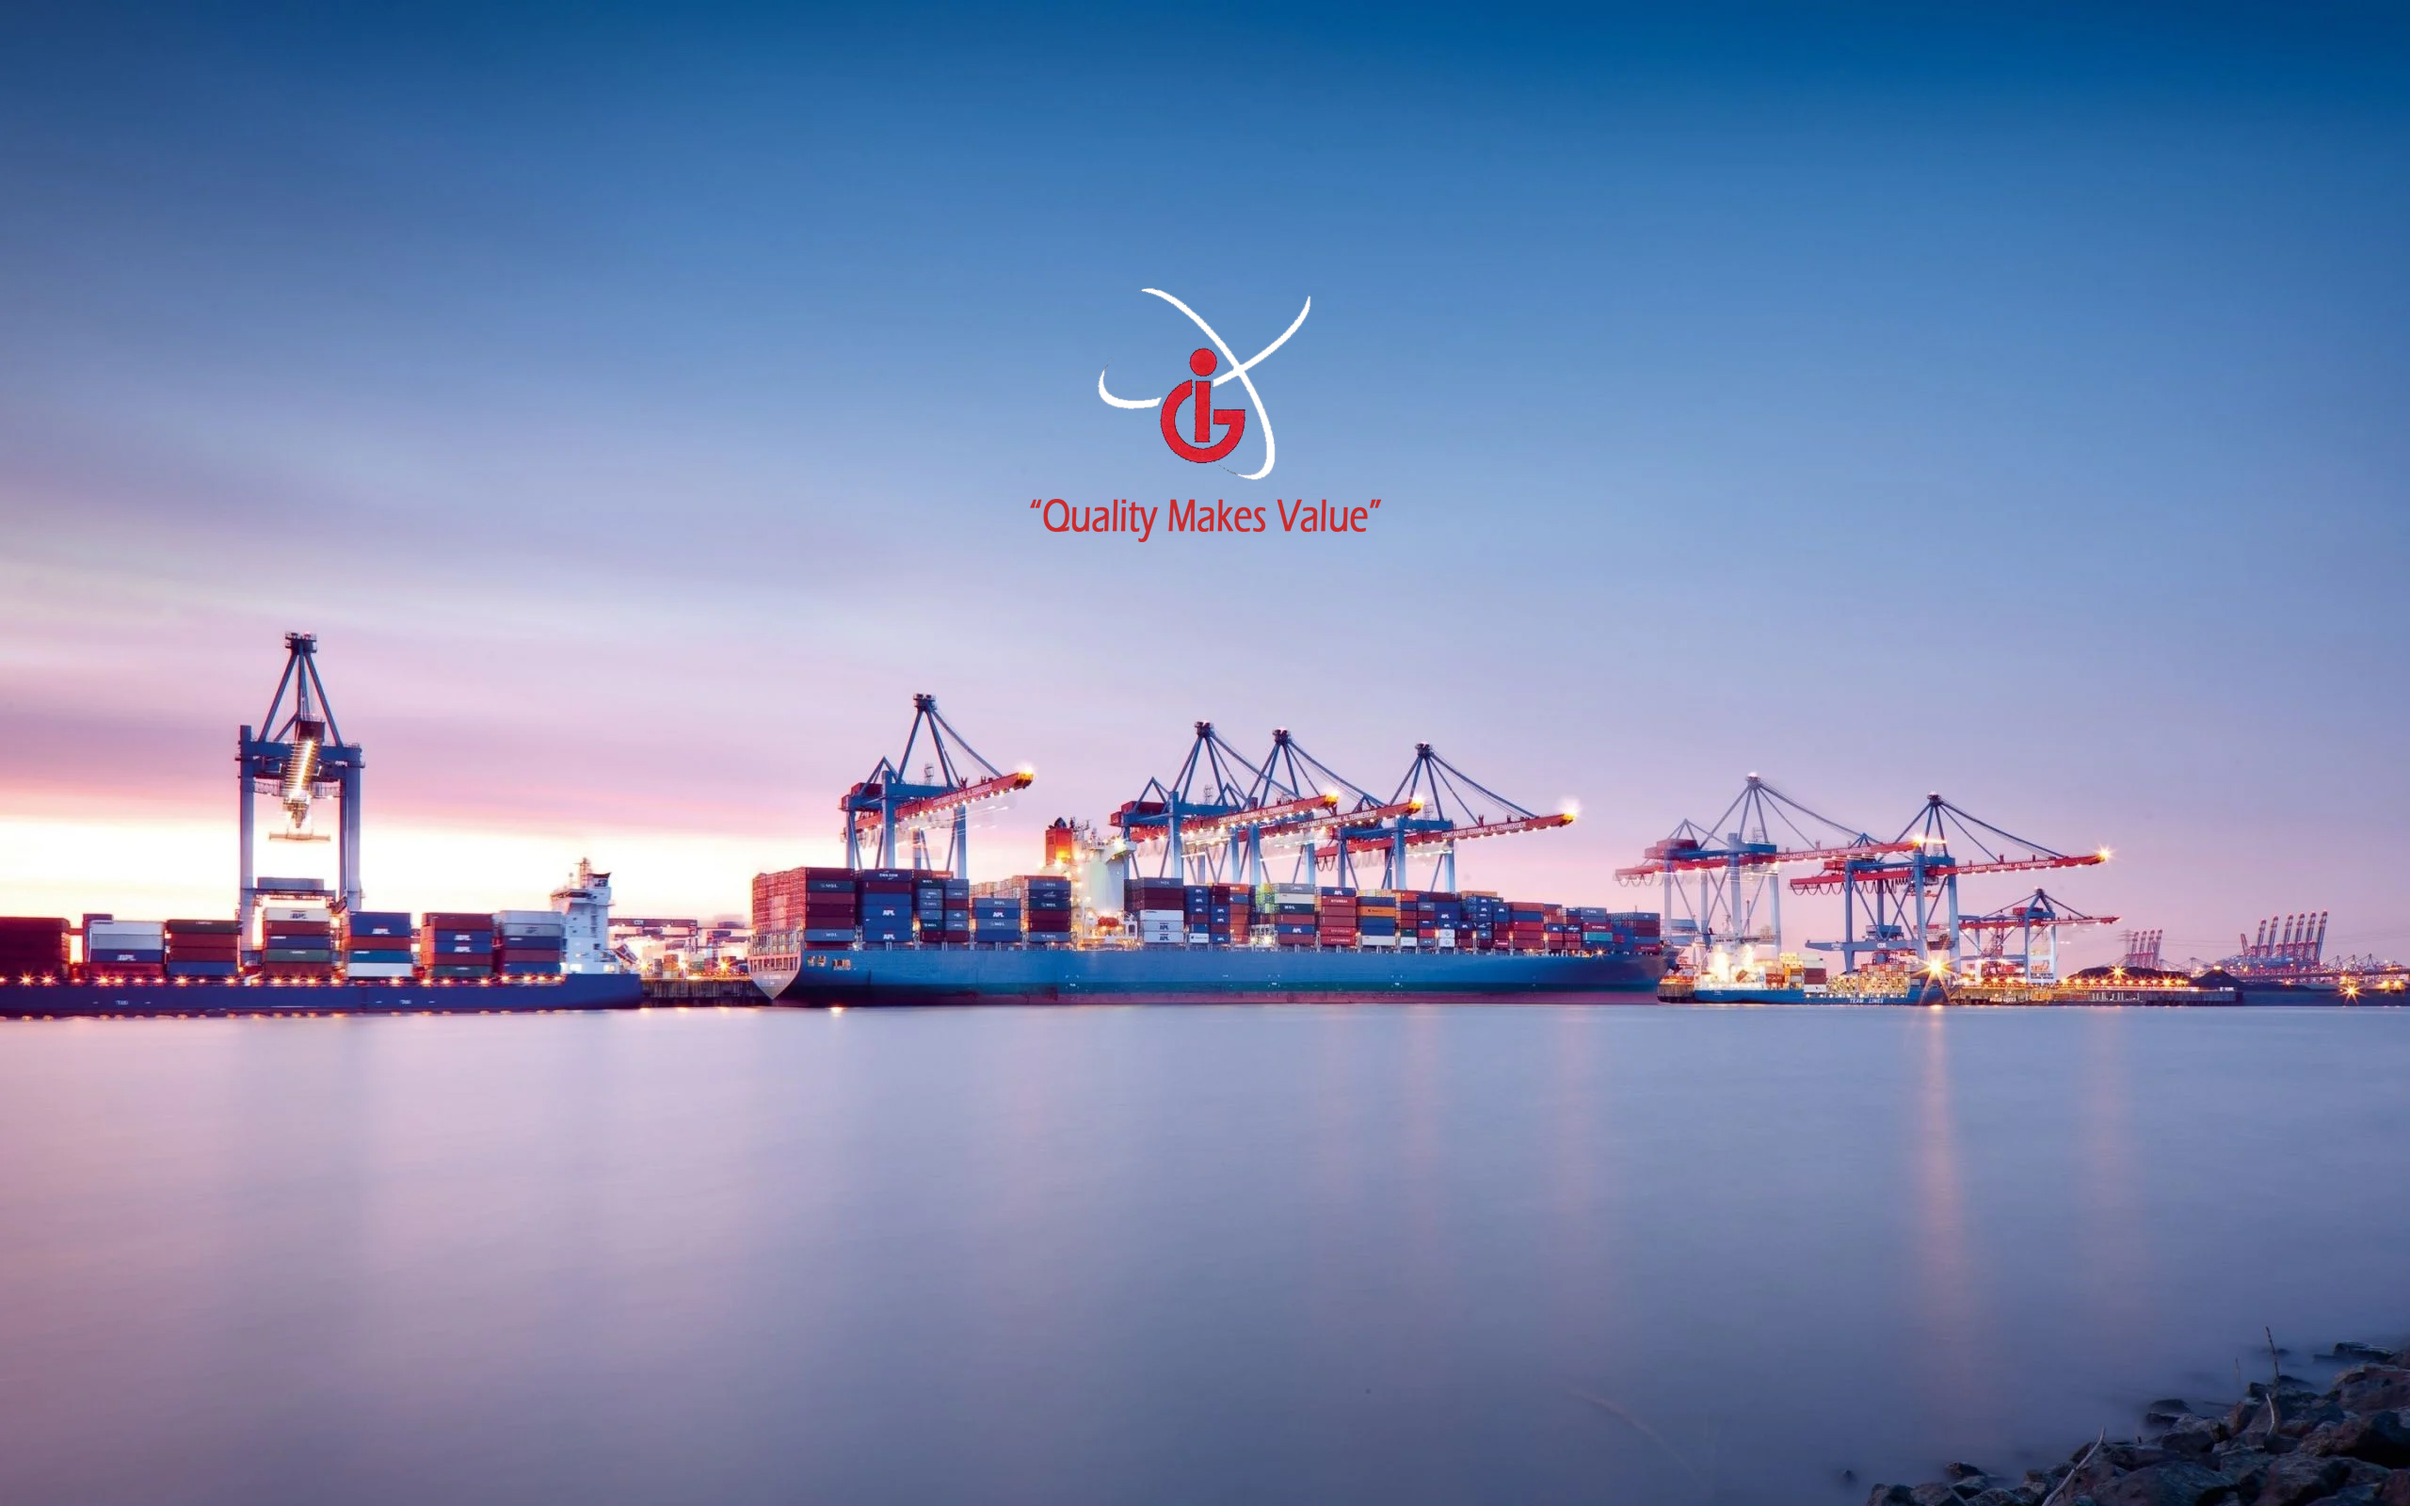
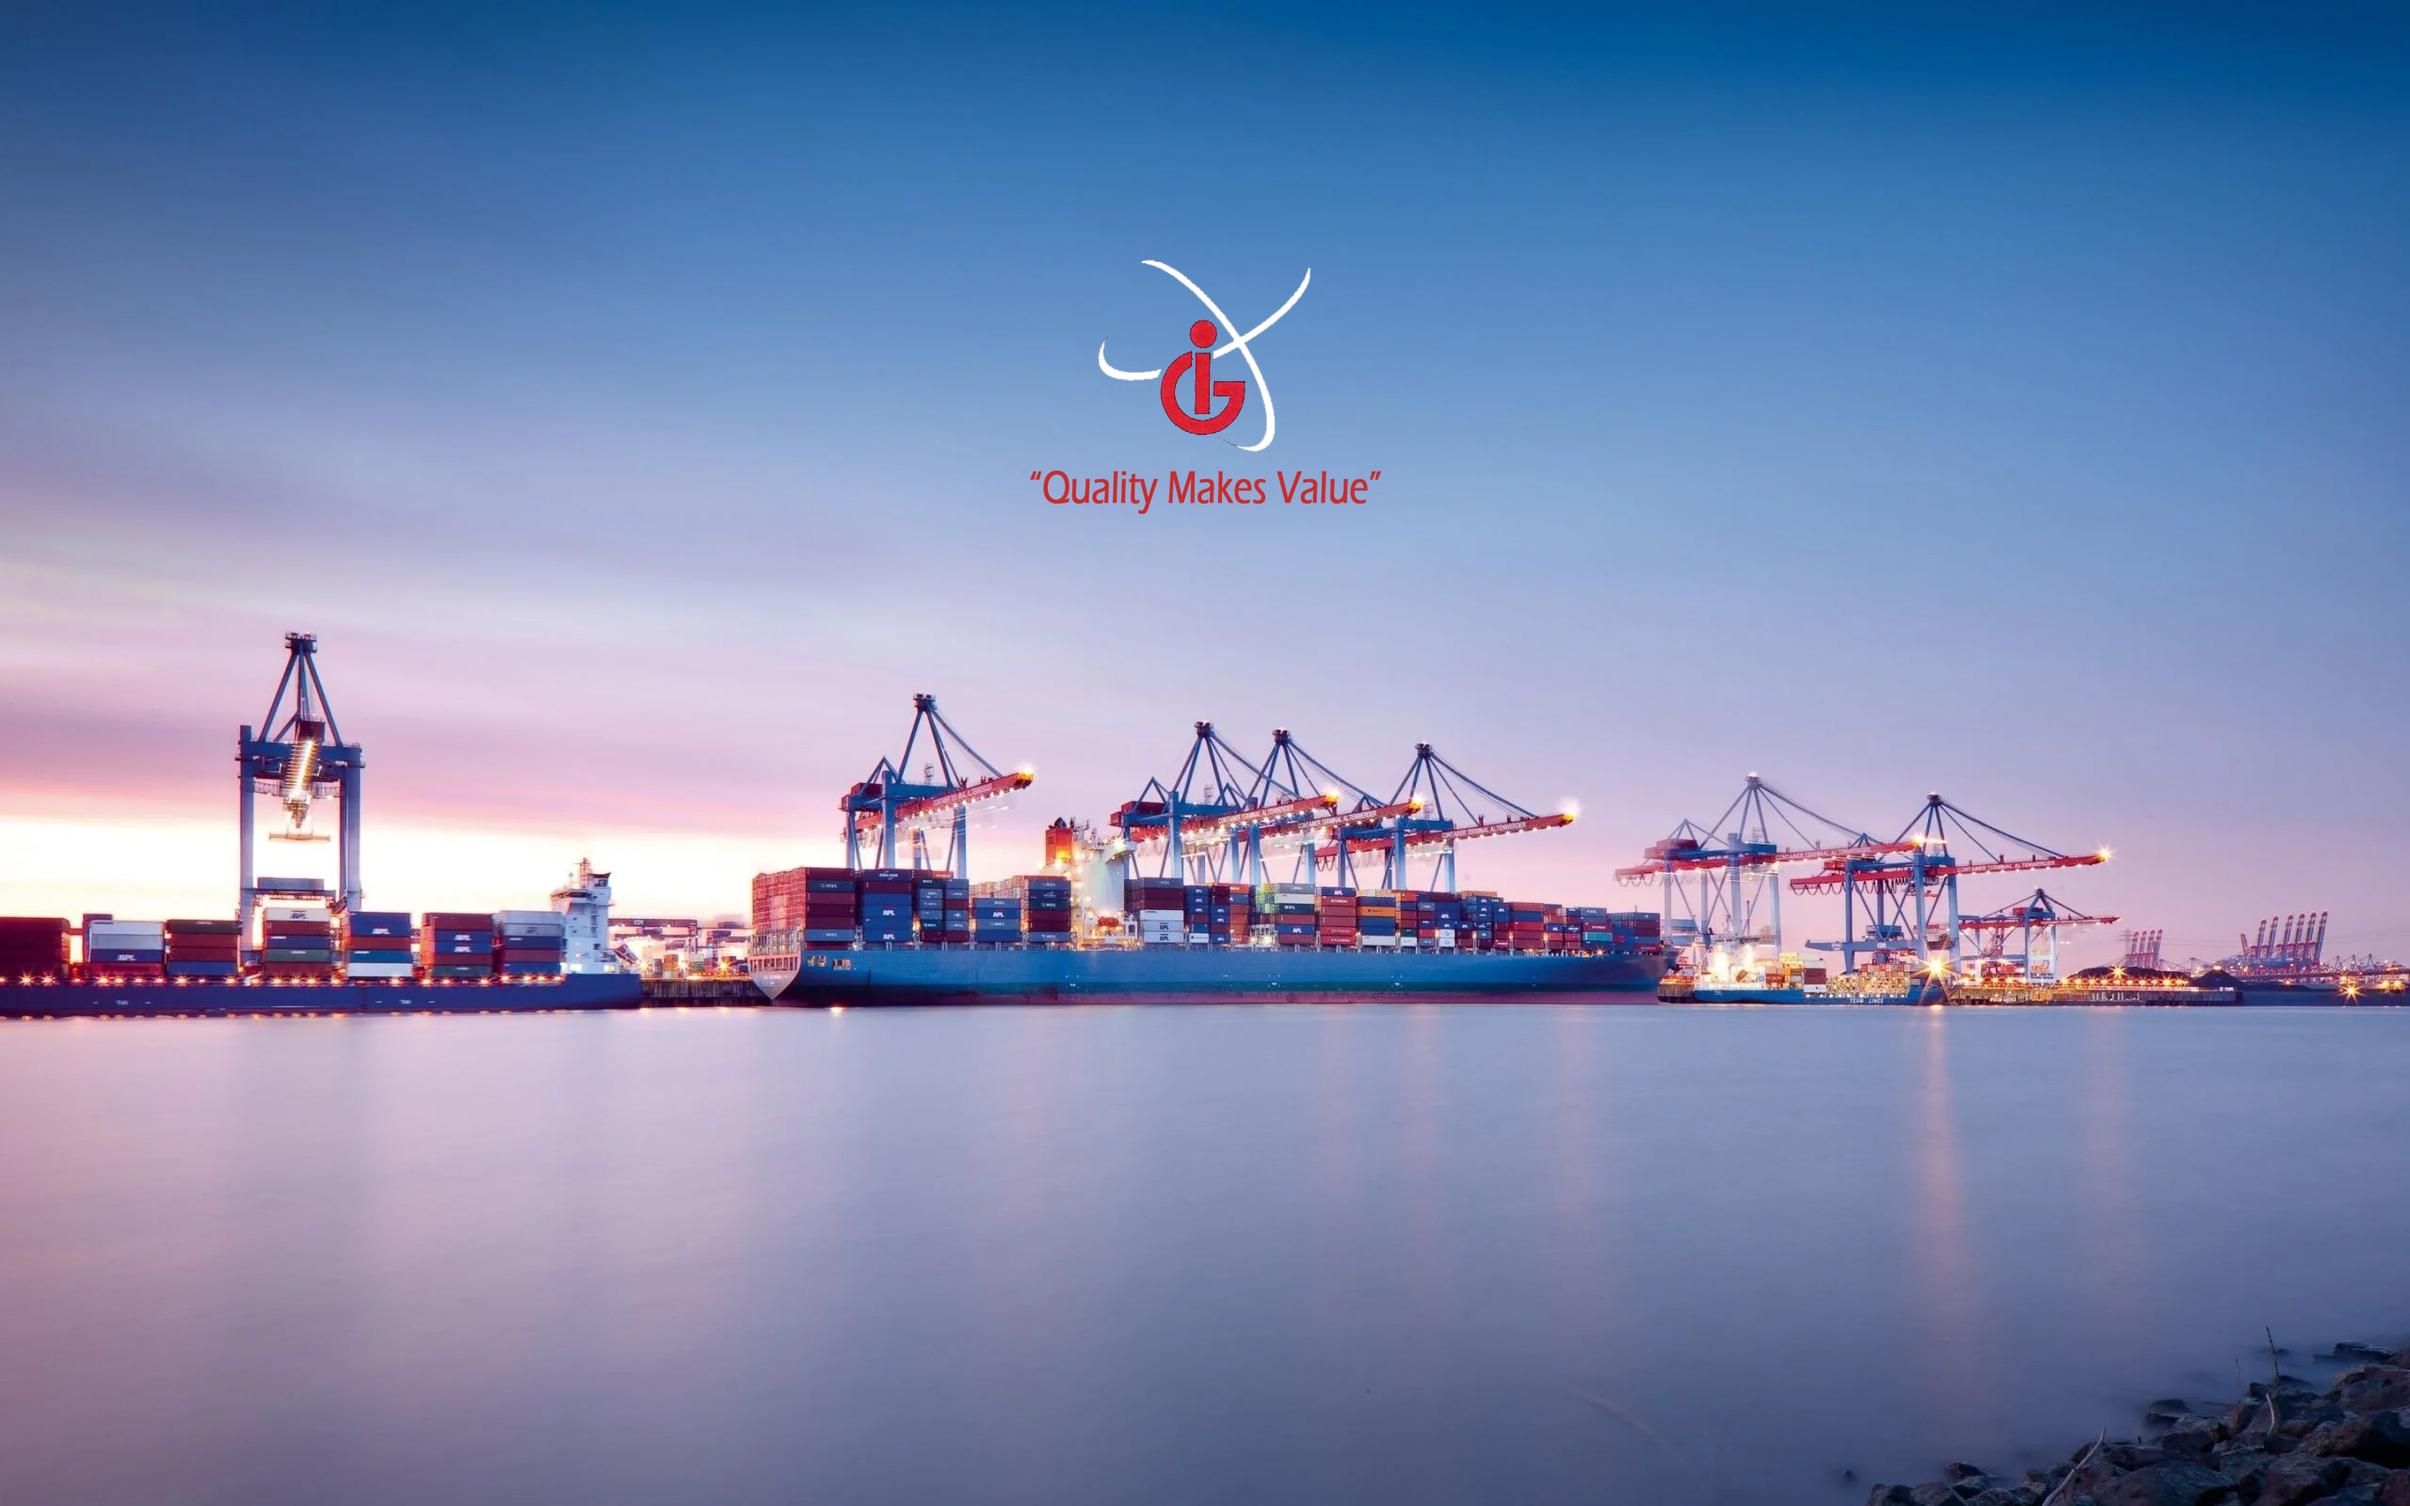
final1

Changed region(s): [[0.4062, 0.1875, 0.5938, 0.375]]

diff --git a/index.html b/index.html
@@ -87,7 +87,7 @@
       <img src="assets/img/hero-bg.jpg" alt="" data-aos="fade-in">
 
       <div class="container text-center" data-aos="fade-up" data-aos-delay="100">
-       <!-- <img src="assets/img/logo.png" alt="">-->
+       <!-- <img src="assets/img/logo.png" alt="">--><br><br>
         <h2>Welcome to Gemini impex</h2>
         <p>importer and distributors</p><br><br><br><br><br>
         <a href="#about" class="btn-scroll" title="Scroll Down"><i class="bi bi-chevron-down"></i></a>
